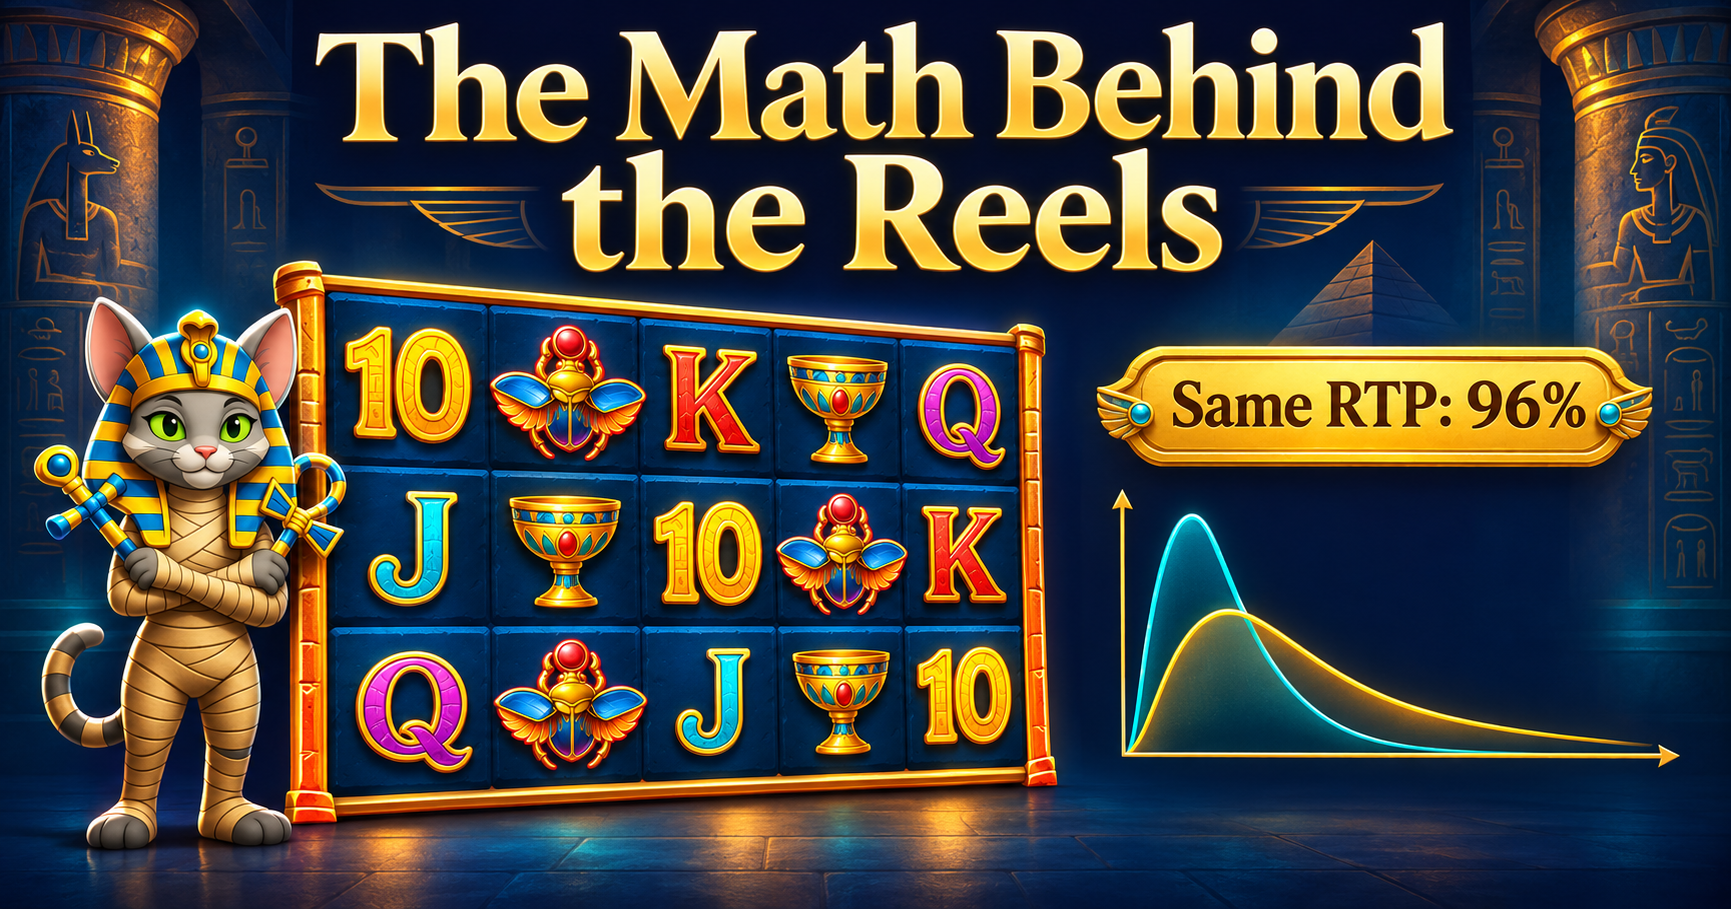
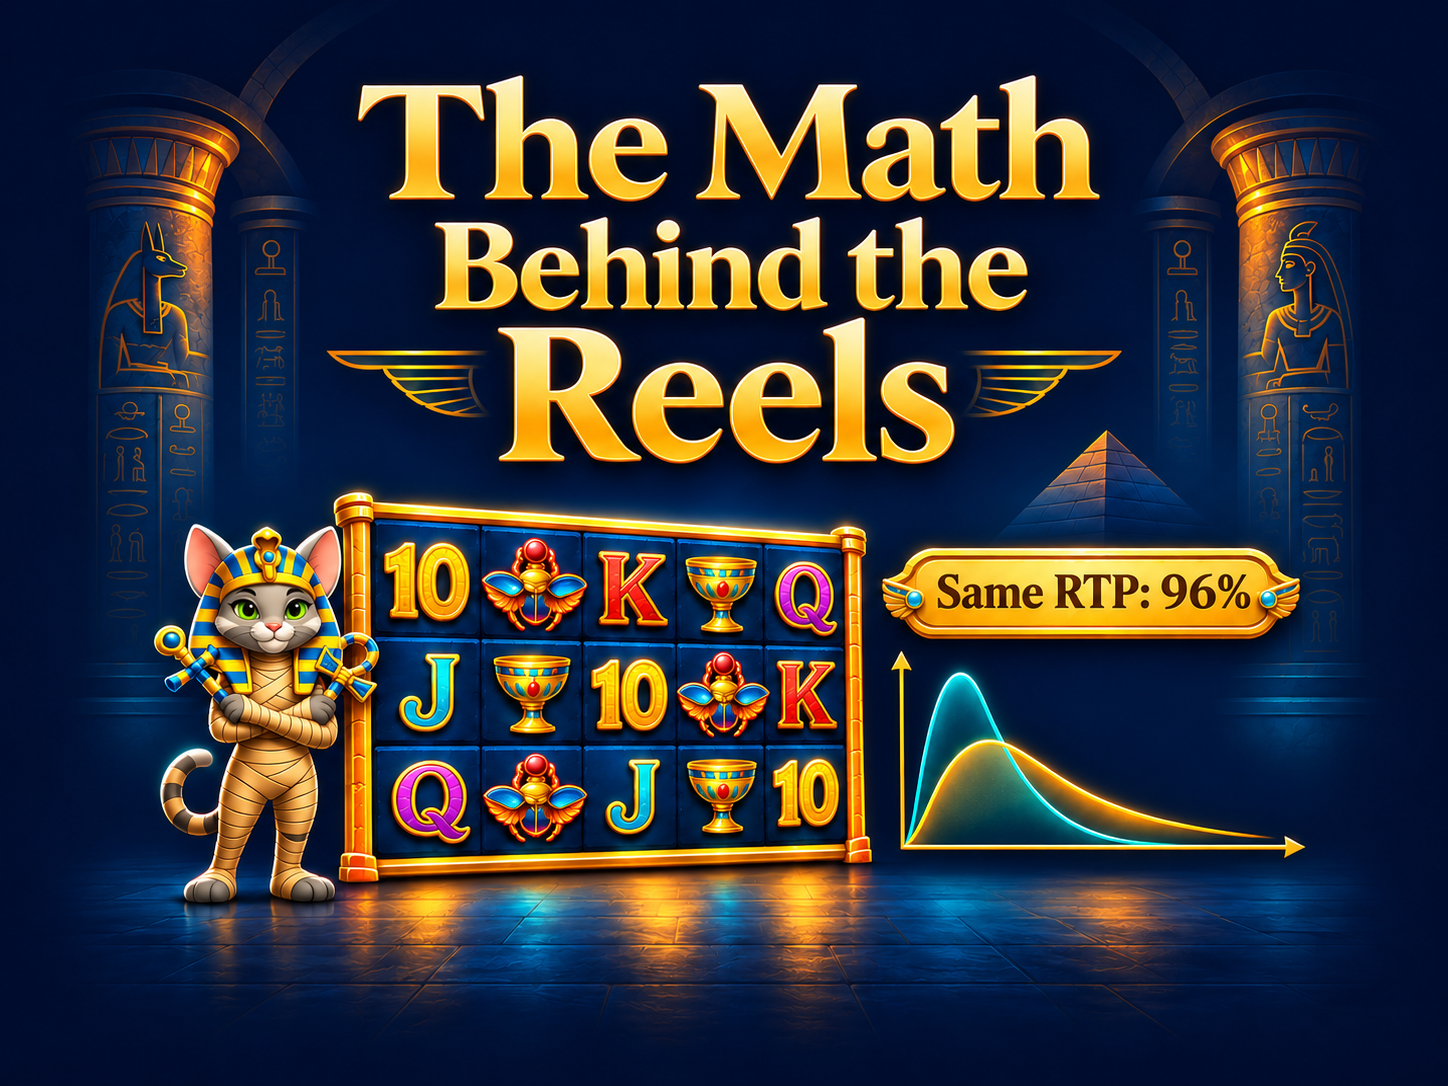
fix: Fit slot thumbnail and refine educational post details

diff --git a/_scripts/search.liquid.js b/_scripts/search.liquid.js
@@ -79,7 +79,7 @@ ninja.data = [
     {%- endfor -%}
   {%- endif -%}
   {%- for collection in site.collections -%}
-    {%- if collection.label != 'posts' -%}
+    {%- if collection.label != 'posts' and collection.output -%}
       {%- assign skip_collection = false -%}
       {%- if collection.label == 'books' -%}
         {%- assign books_page = site.pages | where: "permalink", "/books/" | first -%}

diff --git a/_posts/2026-11-14-building-and-balancing-slot-like-game-mechanics.md b/_posts/2026-11-14-building-and-balancing-slot-like-game-mechanics.md
@@ -150,6 +150,8 @@ These details will become important when calculating the expected return.
 
 {% include slotmachine/demo.liquid %}
 
+> This interactive demo is intended solely for educational purposes. All coins are virtual and have no monetary value. They cannot be purchased, transferred, redeemed, or exchanged for money or prizes. No real-money gambling is involved. The theoretical RTP values apply only to the mathematical models presented in this article.
+
 Try spinning the machine a few times.
 
 The demo starts with 100 virtual coins, and each spin costs one coin.
